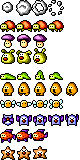
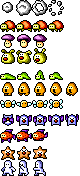
Snowman with no balls

diff --git a/src/enemytypes.js b/src/enemytypes.js
@@ -13,7 +13,7 @@ import { Enemy } from "./enemy.js";
 
 export function getEnemyType(index) {
 
-    const TYPES = [Turtle, Fungus, Bunny, Caterpillar, SandEgg, Fly, Bat, Fish, Star];
+    const TYPES = [Turtle, Fungus, Bunny, Caterpillar, SandEgg, Fly, Bat, Fish, Star, Snowman];
     
     return TYPES[clamp(index, 0, TYPES.length-1) | 0];
 }
@@ -92,6 +92,20 @@ export class Turtle extends Enemy {
 		
 		this.dir *= -1;
 	}
+
+
+	enemyCollisionEvent(e) {
+
+		if ((this.speed.x > 0 && e.pos.x > this.pos.x) ||
+			(this.speed.x < 0 && e.pos.x < this.pos.x )) {
+
+			this.target.x *= -1;
+			this.speed.x *= -1;
+
+			this.dir *= -1;
+		}
+	}
+
 }
 
 
@@ -257,6 +271,17 @@ export class Caterpillar extends Enemy {
 	}
 
 
+	enemyCollisionEvent(e) {
+
+		if ((this.speed.x > 0 && e.pos.x > this.pos.x) ||
+			(this.speed.x < 0 && e.pos.x < this.pos.x )) {
+
+			this.dir *= -1;
+			this.speed.x *= -1;
+		}
+	}
+
+
 	playerEvent(pl, ev) {
 
 		const MARGIN = 16;
@@ -364,7 +389,18 @@ export class Bunny extends Enemy {
     wallCollisionEvent(x, y, h, dir, ev) {
 
 		this.dir = -dir;
-    }
+	}
+	
+
+	enemyCollisionEvent(e) {
+
+		if ((this.speed.x > 0 && e.pos.x > this.pos.x) ||
+			(this.speed.x < 0 && e.pos.x < this.pos.x )) {
+
+			this.speed.x *= -1;
+			this.dir *= -1;
+		}
+	}
 
 }
 
@@ -482,11 +518,23 @@ export class SandEgg extends Enemy {
 		if (!this.waiting)
 			this.dir *= -1;
 	}
+
+
+	enemyCollisionEvent(e) {
+
+		if ((this.speed.x > 0 && e.pos.x > this.pos.x) ||
+			(this.speed.x < 0 && e.pos.x < this.pos.x )) {
+
+			this.dir *= -1;
+			this.speed.x *= -1;
+		}
+	}
 }
 
 
 const FLY_WAIT_TIME = 30;
 const FLY_MOVE_TIME = 60;
+const FLY_MOVE_SPEED = 0.5;
 
 
 export class Fly extends Enemy {
@@ -522,16 +570,14 @@ export class Fly extends Enemy {
 	
 	updateAI(ev) {
 
-		const MOVE_SPEED = 0.5;
-
 		if ((this.waitTimer -=  ev.step) <= 0.0) {
 
 			this.waitTimer += (this.waiting ? FLY_MOVE_TIME : FLY_WAIT_TIME);
 
 			if (this.waiting) {
 
-				this.speed.x = this.moveDir.x * MOVE_SPEED;
-				this.speed.y = this.moveDir.y * MOVE_SPEED;
+				this.speed.x = this.moveDir.x * FLY_MOVE_SPEED;
+				this.speed.y = this.moveDir.y * FLY_MOVE_SPEED;
 			}
 			else {
 
@@ -566,6 +612,18 @@ export class Fly extends Enemy {
 
 		this.moveDir = (new Vector2(pl.pos.x - this.pos.x, pl.pos.y - this.pos.y))
 			.normalize(true);
+	}
+
+
+	enemyCollisionEvent(e) {
+
+		if (this.waiting) return;
+
+		let dir = 
+			new Vector2(this.pos.x - e.pos.x, this.pos.y - e.pos.y)
+			.normalize();
+
+		this.speed.x = dir.x * FLY_MOVE_SPEED;
 	}
 
 }
@@ -744,6 +802,18 @@ export class Fish extends Enemy {
 		
 		this.dir *= -1;
 	}
+
+
+	enemyCollisionEvent(e) {
+
+		if ((this.speed.x > 0 && e.pos.x > this.pos.x) ||
+			(this.speed.x < 0 && e.pos.x < this.pos.x )) {
+
+			this.dir *= -1;
+			this.speed.x *= -1;
+			this.target.x *= -1;
+		}
+	}
 }
 
 
@@ -832,4 +902,83 @@ export class Star extends Enemy {
 
 		this.waitTimer = STAR_WAIT_TIME;
 	}
+}
+
+
+const SNOWMAN_SHOOT_TIME = 60;
+
+
+export class Snowman extends Enemy {
+	
+	
+	constructor(x, y) {
+		
+		super(x, y, 9, 3, 1);
+
+		this.center.y = 2;
+		this.collisionBox = new Vector2(4, 12);
+        // this.hitbox = new Vector2(8, 8);
+		this.renderOffset.y = 1;
+
+		this.mass = 0.5;
+
+		this.shooting = false;
+		this.shootTimer = SNOWMAN_SHOOT_TIME - 
+			(((x / 16) | 0) % 2) * (SNOWMAN_SHOOT_TIME/2);;
+	}
+
+
+	init(x, y) {
+
+		const BASE_GRAVITY = 2.0;
+
+		this.target.y = BASE_GRAVITY;
+	}
+
+
+	updateAI(ev) {
+		
+		if (!this.shooting) {
+
+			if ((this.shootTimer -= ev.step) <= 0) {
+
+				this.spr.setFrame(1, this.spr.row);
+				this.shooting = true;
+
+				this.shootTimer = SNOWMAN_SHOOT_TIME;
+
+				// Sound effect
+                ev.audio.playSample(ev.assets.samples["snowball"], 0.50);
+			}
+		}
+	}
+	
+	
+	animate(ev) {
+		
+		this.flip = this.dir > 0 ? Flip.Horizontal : Flip.None;
+
+		if (!this.shooting) {
+
+			this.spr.setFrame(0, this.spr.row);
+		}
+		else {
+
+			this.spr.animate(this.spr.row, 1, 3, 
+				this.spr.frame == 1 ? 6 : 30,
+				ev.step);
+			if (this.spr.frame == 3) {
+
+				this.spr.setFrame(0, this.spr.row);
+				this.shooting = false;
+			}
+		}
+	}
+
+
+	playerEvent(pl, ev) {
+
+		this.dir = pl.pos.x > this.pos.x ? 1 : -1;
+	}
+
 }

diff --git a/src/enemy.js b/src/enemy.js
@@ -265,6 +265,9 @@ export class Enemy extends CollisionObject {
 	}
 
 	
+	enemyCollisionEvent(e) {}
+
+
 	enemyCollision(e) {
 
 		if (!e.isActive() || !this.isActive())
@@ -287,11 +290,15 @@ export class Enemy extends CollisionObject {
 
 			this.pos.x += dir.x * r/2;
 			this.pos.y += dir.y * r/2;
-			
+
+			this.enemyCollisionEvent(e);
+
 			e.pos.x -= dir.x * r/2;
 			e.pos.y -= dir.y * r/2;
 
-			// TODO: MOdify speed
+			e.enemyCollisionEvent(this);
+
+			// Possible TODO: Alter speed?
 
 			return true;
 		}
